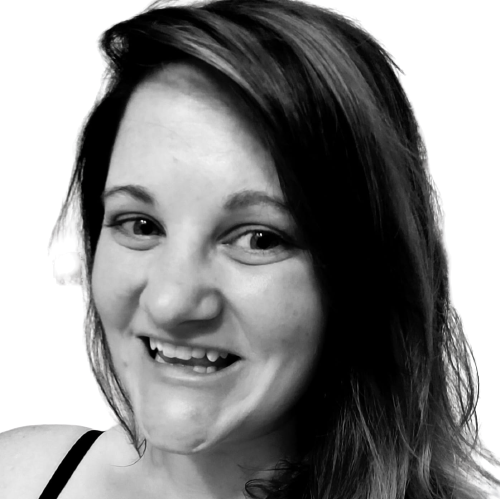
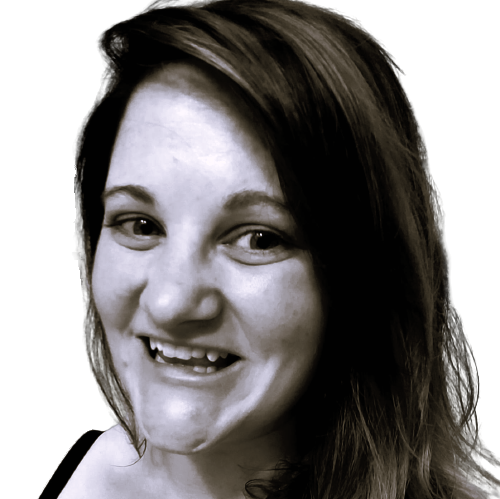
new images and edits

diff --git a/jhelm-home.html b/jhelm-home.html
@@ -12,8 +12,8 @@
 
 <body>
   <header>
-    <nav class="container-fluid navbar navbar-expand-sm navbar-dark bg-dark sticky-top" role="navigation">
-      <a class="navbar-brand" href="jhelm-home.html">Jessica Helmers</a> <!--This is the main/home nav bar-->
+    <nav class="container-fluid navbar navbar-expand-sm navbar-dark bg-dark" role="navigation">
+      <a class="navbar-brand" href="jhelm-home.html">Jessica Helmers</a> <!--This is the main/home nav title/link-->
       <button class="navbar-toggler" type="button" data-toggle="collapse" data-target="#navbarText" 
       aria-controls="navbarText" aria-expanded="false" aria-label="Toggle navigation">
         <span class="navbar-toggler-icon"></span>
@@ -46,13 +46,13 @@
       </div>
       <div class="row">
         <div class="col-sm-1">
-          <img src="images/profile-no_bg.png" height="100" border-radius="5px">
+          <img src="images/profile-no_bg.png" height="100" class="bio-pic" alt="profile photo of Jessica Helmers">
         </div>
         <div class="col-sm-3 bio">
           <p>Jessica Helmers<br>
           Minneapolis-Saint Paul, Minnesota</p>
         </div>
-        <div class="col-sm-2 bio2">
+        <div class="col-sm-3 bio2">
           <ul>
             <li>Taurus<i class="bi bi-sun"></i></li>
             <li>Leo<i class="bi bi-moon"></i></li>
@@ -67,15 +67,29 @@
       <p>Urna nunc id cursus metus aliquam eleifend mi in nulla. Commodo elit at imperdiet dui accumsan sit. Dolor purus non enim praesent elementum. A diam maecenas sed enim ut sem. Mauris rhoncus aenean vel elit scelerisque mauris pellentesque. Fringilla phasellus faucibus scelerisque eleifend donec. Lobortis scelerisque fermentum dui faucibus in ornare quam viverra orci. Sem nulla pharetra diam sit amet nisl. Arcu cursus vitae congue mauris rhoncus. Varius sit amet mattis vulputate enim nulla aliquet porttitor lacus.</p>
     </div>
     <div>
+      <h2>Information Cards</h2>
       <div class="row">
-        <div class="col-sm">
-          <p>Column A</p>>
+        <div class="col-sm shadow-box">
+          <p class="card-heading">Column A</p>
+          <p>Lorem ipsum dolor sit amet</p>
+          <p>Consectetur adipiscing elit</p>
+          <p>Sed do eiusmod tempor incididunt ut labore et dolore magna aliqua</p>
         </div>
-        <div class="col-sm">
-          <p>Column B</p>
+        <div class="col-sm shadow-box">
+          <p class="card-heading">Column B</p>
+          <ul>
+            <li>Lorem ipsum dolor sit amet</li>
+            <li>Consectetur adipiscing elit</li>
+            <li>Sed do eiusmod tempor incididunt ut labore et dolore magna aliqua</li>
+          </ul>
         </div>
-        <div class="col-sm">
-          <p>Column C</p>
+        <div class="col-sm shadow-box">
+          <p class="card-heading">Column C</p>
+          <ol>
+            <li>Lorem ipsum dolor sit amet</li>
+            <li>Consectetur adipiscing elit</li>
+            <li>Sed do eiusmod tempor incididunt ut labore et dolore magna aliqua</li>
+          </ol>
         </div>
     </div>
   </main>
@@ -91,15 +105,13 @@
           </ul>
         </div>
         <div class="col-lg">
-          <p>Lorem ipsum dolor sit amet, consectetur adipiscing elit, sed do eiusmod tempor incididunt ut labore et 
-            dolore magna aliqua. Ut enim ad minim veniam, quis nostrud exercitation ullamco laboris nisi ut aliquip 
-            ex ea commodo consequat.</p>
-          <p>Duis aute irure dolor in reprehenderit in voluptate velit esse cillum dolore 
-            eu fugiat nulla pariatur. Excepteur sint occaecat cupidatat non proident, sunt in culpa qui officia 
-            deserunt mollit anim id est laborum.</p>
+          <p class="italic-p">Jill-of-all-trades, Master of History | Pawrent of 4 | Captain & Finder of clarity in chaos</p>
+          <p>This page was built using my knowledge of HTML, CSS, Bootstrap, and Javascript.<br>
+          Current time for creator is: <span id="currentDate"></span> (CT)
+          </p>
         </div>
         <div class="col-sm-2">
-          <img src="images/bw-1254-removebg-preview.png" height="100" class="footer-pic">
+          <img src="images/bw-1254-removebg-preview.png" height="100" class="footer-pic" alt="black and white profile photo of Jessica Helmers">
         </div>
     </div>
   </footer>

diff --git a/jhelm.js b/jhelm.js
@@ -1,0 +1,36 @@
+// Get current date for website footer - from Sololearn Code Bits
+function printTime() {
+    let d = new Date();
+    let hours = d.getHours();
+    let mins = d.getMinutes();
+    let secs = d.getSeconds();
+    let dayTime = true;
+
+    // How to configure if AM vs. PM
+    if (hours >= 12){
+        dayTime = "PM";
+    } else {
+        dayTime = "AM";
+    }
+    
+    // Hwo to configure if less than 10 minutes
+    if (mins < 10){
+        mins = "0"+mins;
+    }
+
+    // How to configure if less than 10 seconds
+        if (secs < 10){
+        secs = "0"+secs;
+    }
+    
+    let timeZone = -1;
+    // Timezone equals time from Eastern time (CT)
+    
+    document.body.innerHTML = (Math.floor(hours/2)+(timeZone))+":"+mins+":"+secs+dayTime;
+    //console.log((hours/2)+":"+mins+":"+secs+dayTime);
+    //console.log(hours+":"+mins+":"+secs);
+}
+setInterval(printTime, 1000);
+console.log(printTime);
+
+document.getElementById("currentDate").innerHTML = printTime

diff --git a/jhelm.css b/jhelm.css
@@ -57,7 +57,7 @@ header, main {
 .footer-main {
     background-color: rgb(71, 71, 71);
     color: white;
-    padding: 25px;
+    padding: 25px 25px 10px 25px;
     font-size: small;
     text-align: center;
 }
@@ -76,6 +76,18 @@ i {
     margin-block: 10px;
 }
 
+.bio-pic {
+    border-radius: 10px;
+    border-style: groove;
+    border-width: 3px;
+    box-shadow: 5px 5px lightblue;
+}
+
+.italic-p {
+    font-style: italic;
+    font-size: medium;
+}
+
 .footer-links {
     list-style-type: none;
     font-size: medium;
@@ -88,4 +100,17 @@ i {
 .footer-pic {
     border-radius: 5px;
     text-align: center;
+}
+
+.shadow-box {
+    box-shadow: 5px 5px 5px lightblue;
+    border-style: groove;
+    border-radius: 5px;
+    padding: 5px;
+    margin: 10px;
+}
+
+.card-heading {
+    font-weight: bold;
+    font-stretch: ultra-expanded;
 }
